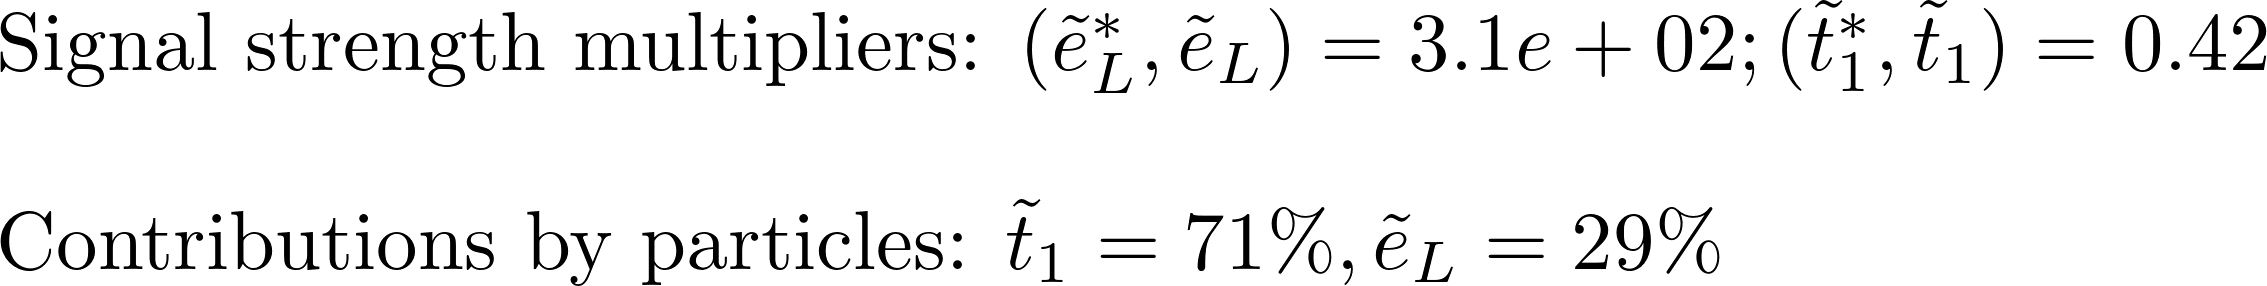
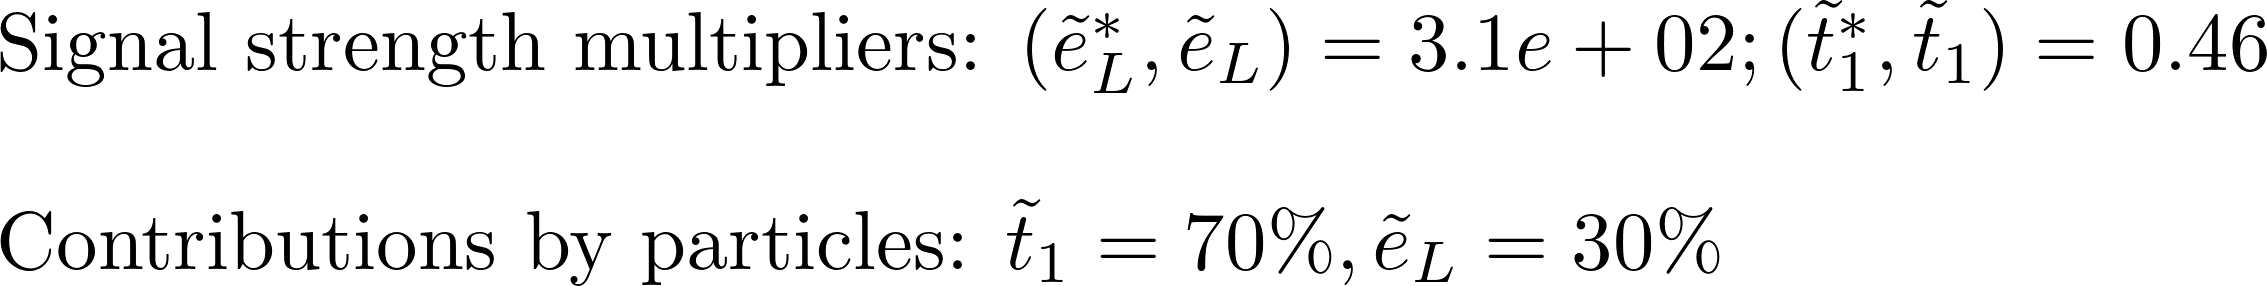
automated update by plotHiscore.py

Changed region(s): [[0.6793, 0.7552, 0.7411, 0.951], [0.9572, 0.0559, 1.0, 0.2517], [0.5249, 0.7552, 0.5558, 0.951]]

diff --git a/protomodels/latest/index.html b/protomodels/latest/index.html
@@ -1,31 +1,31 @@
 <html>
 <body>
 <center>
-<table><td><h1>Current best protomodel: K=8.41, Z=3.26</h1><td><img height=60px src=https://smodels.github.io/pics/banner.png></table>
+<table><td><h1>Current best protomodel: K=8.79, Z=3.32</h1><td><img height=60px src=https://smodels.github.io/pics/banner.png></table>
 </center>
-<b><a href=./hiscore.slha>ProtoModel</a> <a href=./pmodel.py>(dict)</a> produced with <a href=https://smodels.github.io/docs/Validation123SM1>database v1.2.3SM1</a>, combination strategy <a href=./matrix_aggressive.png>aggressive</a> in step 55.</b> Z plots for: <a href=./M1000022.png?864318>~&chi;<sub>1</sub><sup>0</sup></a>, <a href=./M1000006.png?864318>~t<sub>1</sub></a>, <a href=./M1000011.png?864318>~e<sub>L</sub></a>. HPD plots for: <a href=./llhd1000006.png?864318>~t<sub>1</sub></a>, <a href=./llhd1000011.png?864318>~e<sub>L</sub></a>. SSM plots for: <a href=./ssm_-1000006_1000006.png?864318>(~t<sub>1</sub><sup>*</sup>,~t<sub>1</sub>)</a><br>
+<b><a href=./hiscore.slha>ProtoModel</a> <a href=./pmodel.py>(dict)</a> produced with <a href=https://smodels.github.io/docs/Validation123SM1>database v1.2.3SM1</a>, combination strategy <a href=./matrix_aggressive.png>aggressive</a> in step 54.</b> Z plots for: <a href=./M1000022.png?864908>~&chi;<sub>1</sub><sup>0</sup></a>, <a href=./M1000006.png?864908>~t<sub>1</sub></a>, <a href=./M1000011.png?864908>~e<sub>L</sub></a>. HPD plots for: <a href=./llhd1000006.png?864908>~t<sub>1</sub></a>, <a href=./llhd1000011.png?864908>~e<sub>L</sub></a>. SSM plots for: <a href=./ssm_-1000006_1000006.png?864908>(~t<sub>1</sub><sup>*</sup>,~t<sub>1</sub>)</a><br>
 <table width=80%>
 <tr><td>
 <br><b>28 predictions available. Highest r values are:</b><br><ul>
 <li><a href=https://atlas.web.cern.ch/Atlas/GROUPS/PHYSICS/PAPERS/SUSY-2016-24/>ATLAS-SUSY-2016-24</a>:TSelSel r=1.70, r<sub>exp</sub>=1.49<br>
-<li><a href=http://cms-results.web.cern.ch/cms-results/public-results/publications/SUS-19-006/index.html>CMS-SUS-19-006</a>:T2tt r=1.57, r<sub>exp</sub>=0.58<br>
-<li><a href=http://cms-results.web.cern.ch/cms-results/public-results/publications/SUS-16-051/index.html>CMS-SUS-16-051</a>:T2tt r=1.37, r<sub>exp</sub>=0.40<br>
-<li><a href=http://cms-results.web.cern.ch/cms-results/public-results/publications/SUS-16-049/index.html>CMS-SUS-16-049</a>:T2tt r=0.94, r<sub>exp</sub>=0.64<br>
+<li><a href=http://cms-results.web.cern.ch/cms-results/public-results/publications/SUS-19-006/index.html>CMS-SUS-19-006</a>:T2tt r=1.70, r<sub>exp</sub>=0.63<br>
+<li><a href=http://cms-results.web.cern.ch/cms-results/public-results/publications/SUS-16-051/index.html>CMS-SUS-16-051</a>:T2tt r=1.49, r<sub>exp</sub>=0.43<br>
+<li><a href=http://cms-results.web.cern.ch/cms-results/public-results/publications/SUS-16-049/index.html>CMS-SUS-16-049</a>:T2tt r=1.02, r<sub>exp</sub>=0.69<br>
 <li><a href=https://atlas.web.cern.ch/Atlas/GROUPS/PHYSICS/PAPERS/SUSY-2013-11/>ATLAS-SUSY-2013-11</a>:TSlepSlep r=0.45, r<sub>exp</sub>=0.45<br>
 </ul>
 <td><br><b>Contributions per analysis:</b><br>
 <ul>
-<li> <a href=https://atlas.web.cern.ch/Atlas/GROUPS/PHYSICS/PAPERS/SUSY-2013-11/>ATLAS-SUSY-2013-11</a>: 38%
-<li> <a href=https://twiki.cern.ch/twiki/bin/view/CMSPublic/PhysicsResultsSUS13012>CMS-SUS-13-012</a>: 38%
-<li> <a href=https://atlas.web.cern.ch/Atlas/GROUPS/PHYSICS/CONFNOTES/ATLAS-CONF-2013-037/>ATLAS-CONF-2013-037</a>: 37%
+<li> <a href=https://atlas.web.cern.ch/Atlas/GROUPS/PHYSICS/PAPERS/SUSY-2013-11/>ATLAS-SUSY-2013-11</a>: 45%
+<li> <a href=https://twiki.cern.ch/twiki/bin/view/CMSPublic/PhysicsResultsSUS13012>CMS-SUS-13-012</a>: 45%
+<li> <a href=https://atlas.web.cern.ch/Atlas/GROUPS/PHYSICS/CONFNOTES/ATLAS-CONF-2013-037/>ATLAS-CONF-2013-037</a>: 44%
 <li> <a href=https://atlas.web.cern.ch/Atlas/GROUPS/PHYSICS/PAPERS/SUSY-2016-16/>ATLAS-SUSY-2016-16</a>: 17%
-<li> <a href=https://atlas.web.cern.ch/Atlas/GROUPS/PHYSICS/PAPERS/SUSY-2016-24/>ATLAS-SUSY-2016-24</a>: -10%
-<li> <a href=http://cms-results.web.cern.ch/cms-results/public-results/publications/SUS-16-050/index.html>CMS-SUS-16-050</a>: -21%
-<td><img width=600px src=./texdoc.png?1593864318>
-<br><font size=-1>Last updated: Sat Jul  4 14:05:18 2020</font>
+<li> <a href=https://atlas.web.cern.ch/Atlas/GROUPS/PHYSICS/PAPERS/SUSY-2016-24/>ATLAS-SUSY-2016-24</a>: -18%
+<li> <a href=http://cms-results.web.cern.ch/cms-results/public-results/publications/SUS-16-050/index.html>CMS-SUS-16-050</a>: -33%
+<td><img width=600px src=./texdoc.png?1593864908>
+<br><font size=-1>Last updated: Sat Jul  4 14:15:08 2020</font>
 </table><table style="width:80%">
-<td width=45%><img height=580px src=./ruler.png?1593864318><td width=55%><img height=380px src=./decays.png?1593864318>
-<font size=-3><iframe type="text/html" height="220px" width="100%s" frameborder="0" src="./rawnumbers.html?1593864318"></iframe></font>
+<td width=45%><img height=580px src=./ruler.png?1593864908><td width=55%><img height=380px src=./decays.png?1593864908>
+<font size=-3><iframe type="text/html" height="220px" width="100%s" frameborder="0" src="./rawnumbers.html?1593864908"></iframe></font>
 </table>
 </body>
 </html>

diff --git a/protomodels/latest/pmodel.py b/protomodels/latest/pmodel.py
@@ -1,1 +1,1 @@
-{'masses': {1000006: 968.049, 1000011: 703.621, 1000022: 369.786}, 'ssmultipliers': {(1000006, 1000006): 0.424, (-1000006, 1000006): 0.424, (1000006, 1000011): 94.064, (-1000011, 1000006): 0.0, (1000006, 1000022): 0.456, (-1000006, -1000006): 0.552, (-1000006, 1000011): 0.0, (-1000011, -1000006): 0.0, (-1000006, 1000022): 0.456, (1000011, 1000011): 0.0, (-1000011, 1000011): 308.146, (1000011, 1000022): 0.0, (-1000011, -1000011): 0.0, (-1000011, 1000022): 0.0, (1000022, 1000022): 0.477}, 'decays': {1000006: {1000022: 1.0}, 1000011: {1000022: 1.0}, 1000022: {}}, 'timestamp': 'Sat Jul  4 14:05:09 2020', 'Z': 3.263, 'K': 8.415, 'step': 55}
+{'masses': {1000006: 968.049, 1000011: 703.621, 1000022: 369.786}, 'ssmultipliers': {(1000006, 1000006): 0.459, (-1000006, 1000006): 0.459, (1000006, 1000011): 101.87, (-1000011, 1000006): 0.0, (1000006, 1000022): 0.494, (-1000006, -1000006): 0.598, (-1000006, 1000011): 0.0, (-1000011, -1000006): 0.0, (-1000006, 1000022): 0.494, (1000011, 1000011): 0.0, (-1000011, 1000011): 308.146, (1000011, 1000022): 0.0, (-1000011, -1000011): 0.0, (-1000011, 1000022): 0.0, (1000022, 1000022): 0.477}, 'decays': {1000006: {1000022: 1.0}, 1000011: {1000022: 1.0}, 1000022: {}}, 'timestamp': 'Sat Jul  4 14:14:59 2020', 'Z': 3.32, 'K': 8.786, 'step': 54}
